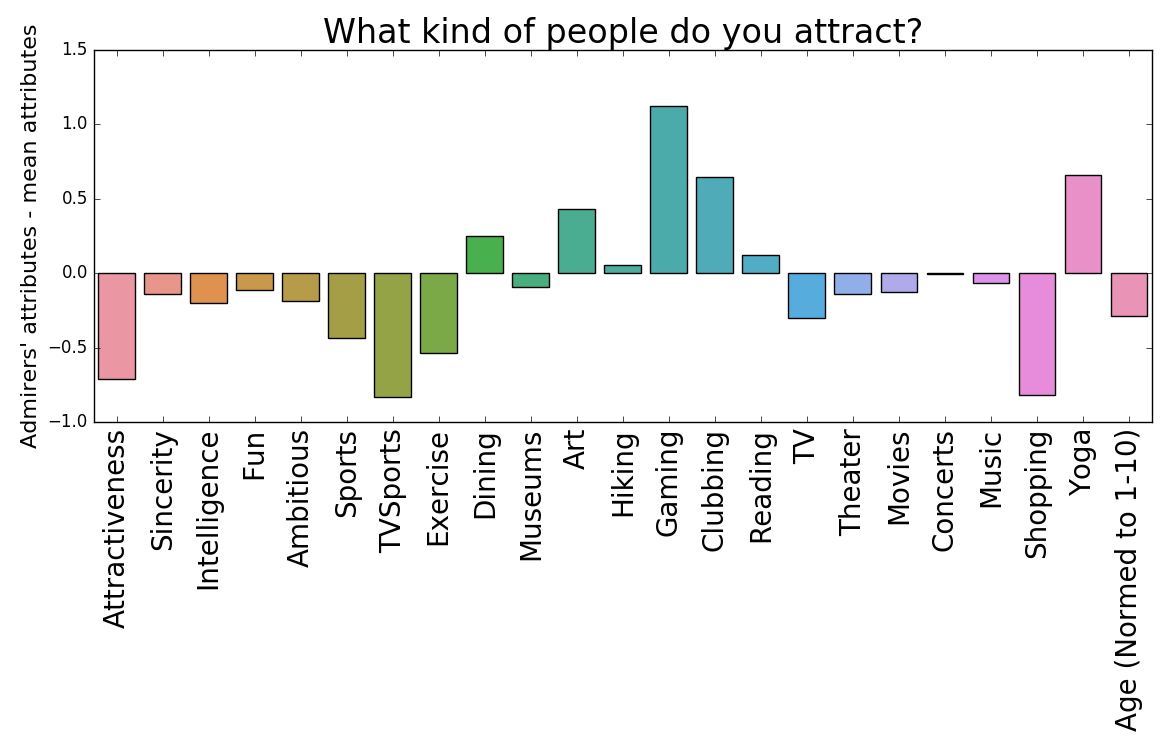
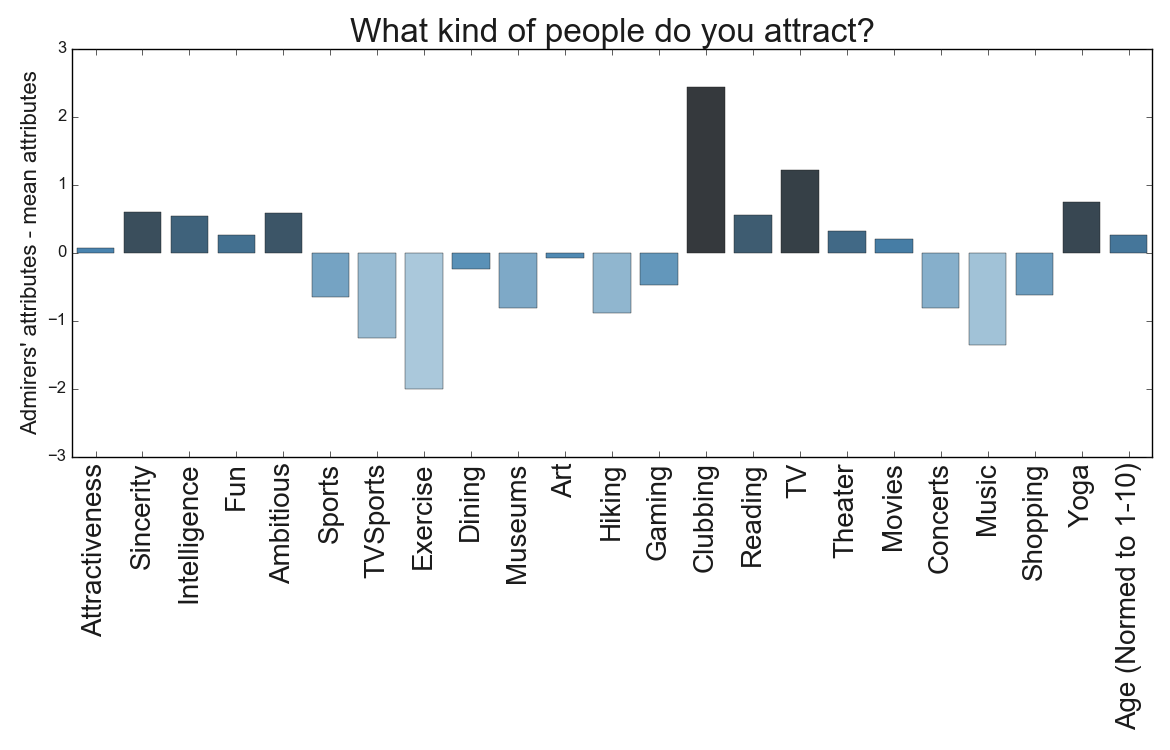
changed barplot colour

Changed region(s): [[0.0, 0.0307, 1.0, 0.9813]]

diff --git a/daniel/website.py b/daniel/website.py
@@ -152,10 +152,24 @@ def admirer_plot(person, num_neighbours):
 	y = difference_ser
 	fig, ax = plt.subplots()
 	fig.set_size_inches(11.7, 7.5)
-	sns.barplot(x, y, ax=ax)
+
+	sns.set(style="whitegrid", color_codes=True)
+	data = difference_ser
+	pal = sns.color_palette("Blues_d", len(data))
+	rank = data.argsort().argsort()
+
+	sns.barplot(x, y, ax=ax, palette=np.array(pal[::-1])[rank])
+
 	ax.set_title('What kind of people do you attract?', fontsize=24)
 	xticks = ax.set_xticklabels(labels=x, rotation=90, fontsize=20)
 	ax.set_ylabel("Admirers' attributes - mean attributes", fontsize=16)
+
+	# data = titanic.groupby("deck").size()   # data underlying bar plot in question
+
+	# pal = sns.color_palette("Greens_d", len(data))
+	# rank = data.argsort().argsort()   # http://stackoverflow.com/a/6266510/1628638
+	# sns.barplot(x=data.index, y=data, palette=np.array(pal[::-1])[rank])
+
 	plt.tight_layout()
 	fig.savefig('barplot.png')
 
@@ -168,9 +182,9 @@ def admirer_plot(person, num_neighbours):
 gender = 1
 age = 30
 attractiveness = 8
-sincerity = 6
-intelligence = 5
-fun = 6
+sincerity = 9
+intelligence = 7
+fun = 4
 ambitious = 6
 
 # This takes the above information and gets it in the right form
@@ -179,4 +193,5 @@ you = collect_info(gender, age, attractiveness, sincerity, intelligence, fun, am
 yeses = num_of_yeses(you)
 # print "yeses: ", yeses
 # This returns nothing but saves 'barplot.png' to this directory
+# Note. This function requires the file 'Speed Dating Data.csv' to be in this directory
 admirer_plot(you, num_neighbours=3)
